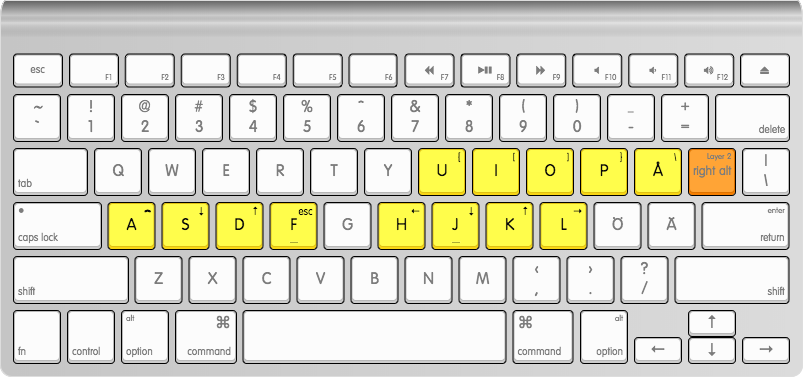
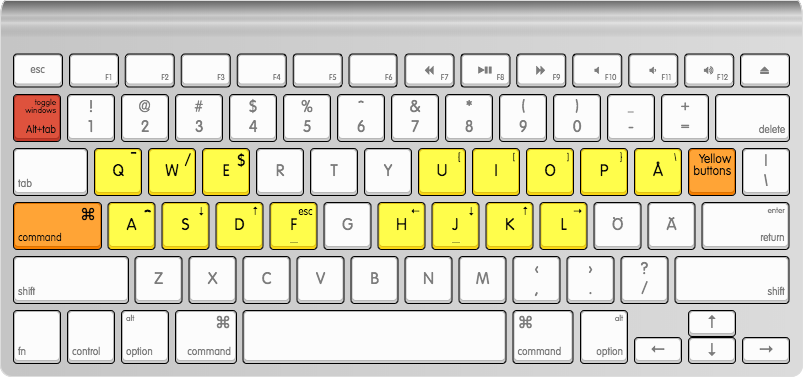
Minor changes

Changed region(s): [[0.0, 0.3793, 0.3113, 0.6711], [0.0, 0.2334, 0.0934, 0.3793], [0.8406, 0.4085, 0.934, 0.4668]]

diff --git a/README.md b/README.md
@@ -1,12 +1,5 @@
 
 
+![test](keyboard-layout.png)
 
 http://www.keyboard-layout-editor.com/#/
-
-[{y:0.75,t:"#666666",p:"CHICKLET",a:7,f:2,w:1.0357,h:0.75},"esc",{a:4,fa:[0,0,0,1],w:1.0357,h:0.75},"\n\n\nF1",{w:1.0357,h:0.75},"\n\n\nF2",{w:1.0357,h:0.75},"\n\n\nF3",{w:1.0357,h:0.75},"\n\n\nF4",{w:1.0357,h:0.75},"\n\n\nF5",{w:1.0357,h:0.75},"\n\n\nF6",{w:1.0357,h:0.75},"\n\n\nF7\n\n\n\n\n\n<i class='fa fa-backward'></i>",{fa:[0,0,0,1,0,0,0,0,0,1],w:1.0357,h:0.75},"\n\n\nF8\n\n\n\n\n\n<i class='fa fa-play'></i><i class='fa fa-pause'></i>",{fa:[0,0,0,1],w:1.0357,h:0.75},"\n\n\nF9\n\n\n\n\n\n<i class='fa fa-forward'></i>",{w:1.0357,h:0.75},"\n\n\nF10\n\n\n\n\n\n<i class='fa fa-volume-off'></i>",{w:1.0357,h:0.75},"\n\n\nF11\n\n\n\n\n\n<i class='fa fa-volume-down'></i>",{w:1.0357,h:0.75},"\n\n\nF12\n\n\n\n\n\n<i class='fa fa-volume-up'></i>",{a:7,w:1.0357,h:0.75},"<i class='fa fa-eject'></i>"],
-[{y:-0.25,a:5,f:5},"<i class=\"varela varela-tilde\"></i>\n`","!\n1","@\n2","#\n3","$\n4","%\n5","^\n6","&\n7","*\n8","(\n9",")\n0","_\n-","+\n=",{a:4,f:2,w:1.5},"\n\n\ndelete"],
-[{w:1.5},"\ntab",{a:7,f:5},"Q","W","E","R","T","Y",{c:"#f8d615",t:"#000000",a:4,fa:[0,0,2]},"\n\n{\n\n\n\n\n\n\nU","\n\n[\n\n\n\n\n\n\nI","\n\n]\n\n\n\n\n\n\nO","\n\n}\n\n\n\n\n\n\nP","\n\n\\\n\n\n\n\n\n\nÅ",{c:"#f67f00",t:"#666666",sm:"alps",fa:[0,0,1,0,0,0,0,3]},"\n\nLayer 2\n\n\n\n\nright alt",{c:"#cccccc",sm:"",a:5},"|\n\\"],
-[{a:4,f:2,fa:[1],w:1.75},"<i class='kb kb-Multimedia-Record'></i>\ncaps lock",{c:"#f8d615",t:"#000000",f:5,fa:[1,0,7]},"\n\n^\n\n\n\n\n\n\nA",{fa:[1,0,2]},"\n\n↓\n\n\n\n\n\n\nS","\n\n↑\n\n\n\n\n\n\nD",{n:true},"\n\nesc\n\n\n\n\n\n\nF",{c:"#cccccc",t:"#666666",a:7,f:5},"G",{c:"#f8d615",t:"#000000",a:4},"\n\n←\n\n\n\n\n\n\nH",{n:true},"\n\n↓\n\n\n\n\n\n\nJ","\n\n↑\n\n\n\n\n\n\nK","\n\n→\n\n\n\n\n\n\nL",{c:"#cccccc",t:"#666666",a:7,f:5},"Ö",{f:5},"Ä",{a:4,f:2,fa:[1,0,1],w:1.75},"\n\nenter\nreturn"],
-[{w:2.25},"\nshift",{a:7,f:5},"Z","X","C","V","B","N","M",{a:5},"<\n,",">\n.","?\n/",{a:4,f:2,w:2.25},"\n\n\nshift"],
-[{h:1.111},"\nfn",{h:1.111},"\ncontrol",{fa:[1],h:1.111},"alt\noption",{fa:[1,0,5],w:1.25,h:1.111},"\n\n⌘\ncommand",{a:7,w:5,h:1.111},"",{a:4,fa:[5],w:1.25,h:1.111},"⌘\ncommand",{fa:[5,0,1],h:1.111},"\n\nalt\noption",{x:1,a:7,f:5,h:0.611},"↑"],
-[{y:-0.5,x:11.5,h:0.6111},"←",{h:0.6111},"↓",{h:0.6111},"→"]
